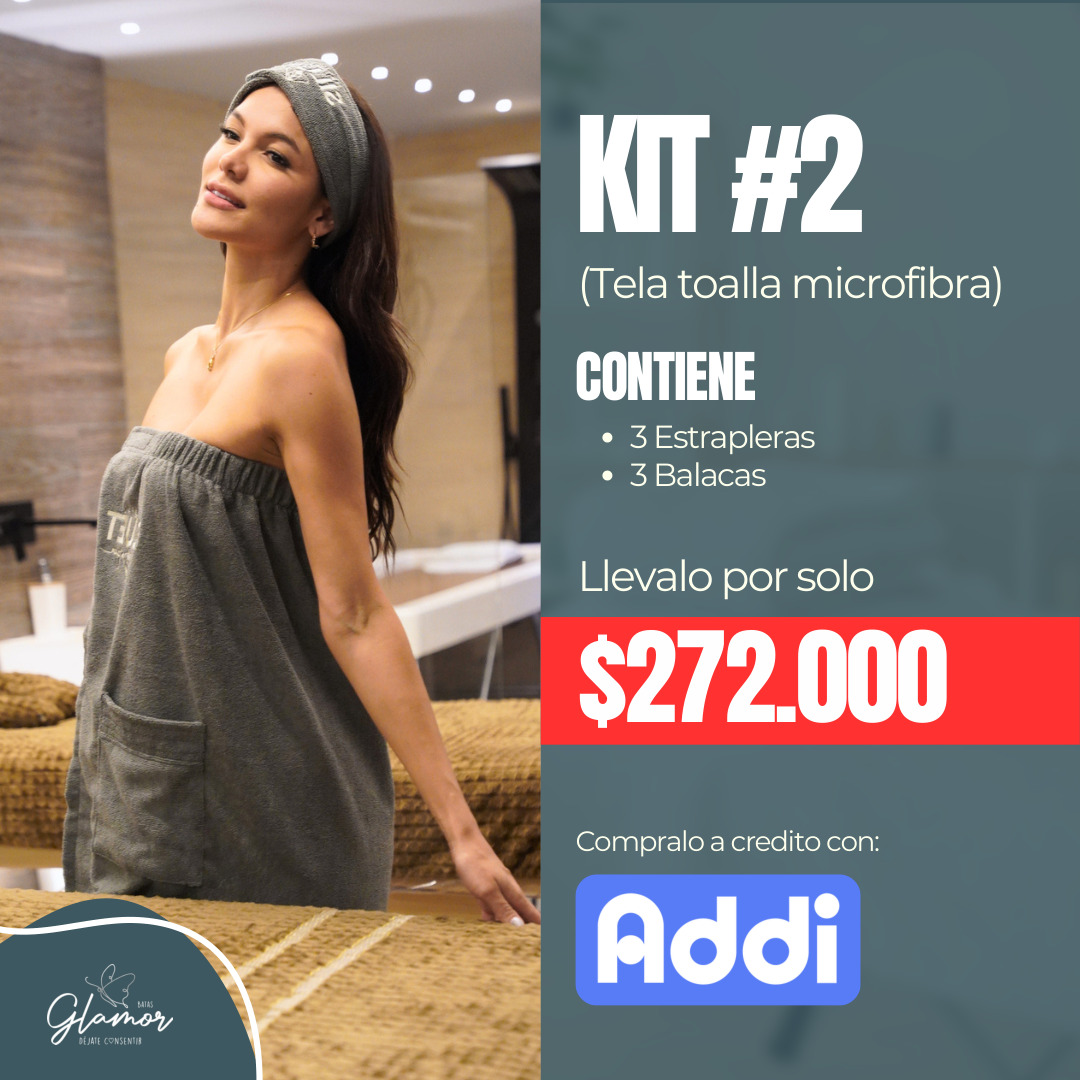
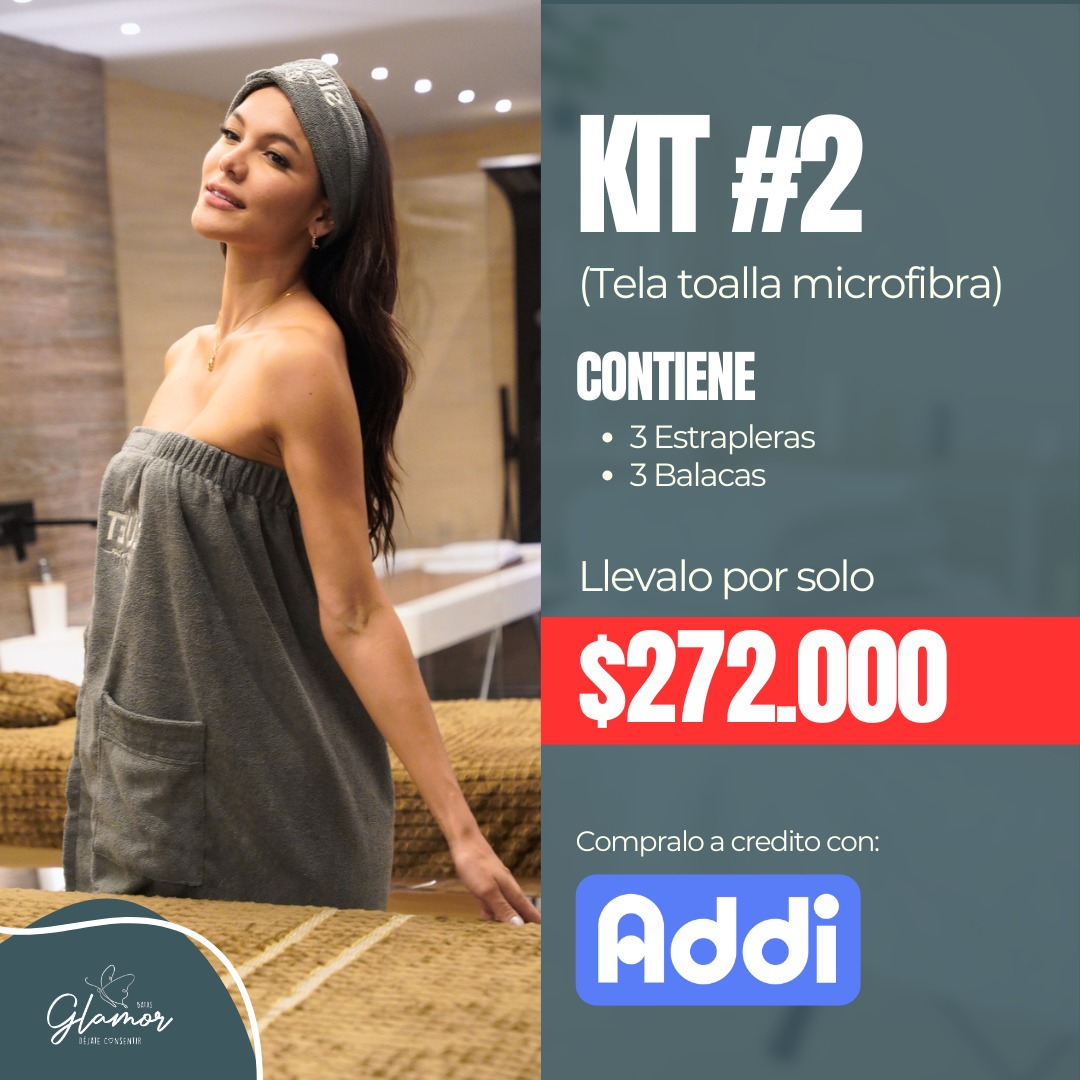
chore: reemplazar imágenes de kits empresariales

diff --git a/app/(glamor)/batas-glamor/kits-empresariales/page.tsx b/app/(glamor)/batas-glamor/kits-empresariales/page.tsx
@@ -18,7 +18,7 @@ export default function KitsEmpresarialesPage() {
           <div className="relative mx-auto max-w-6xl">
             <div className="relative h-[32vh] overflow-hidden rounded-lg shadow-xl sm:h-[38vh] md:h-[44vh] lg:h-[50vh]">
               <Image
-                src="/images/kits-empresariales-banner.png"
+                src="/images/kits-empresariales-banner.jpeg"
                 alt="Kits Empresariales Batas Glamor"
                 fill
                 className="object-cover object-center"
